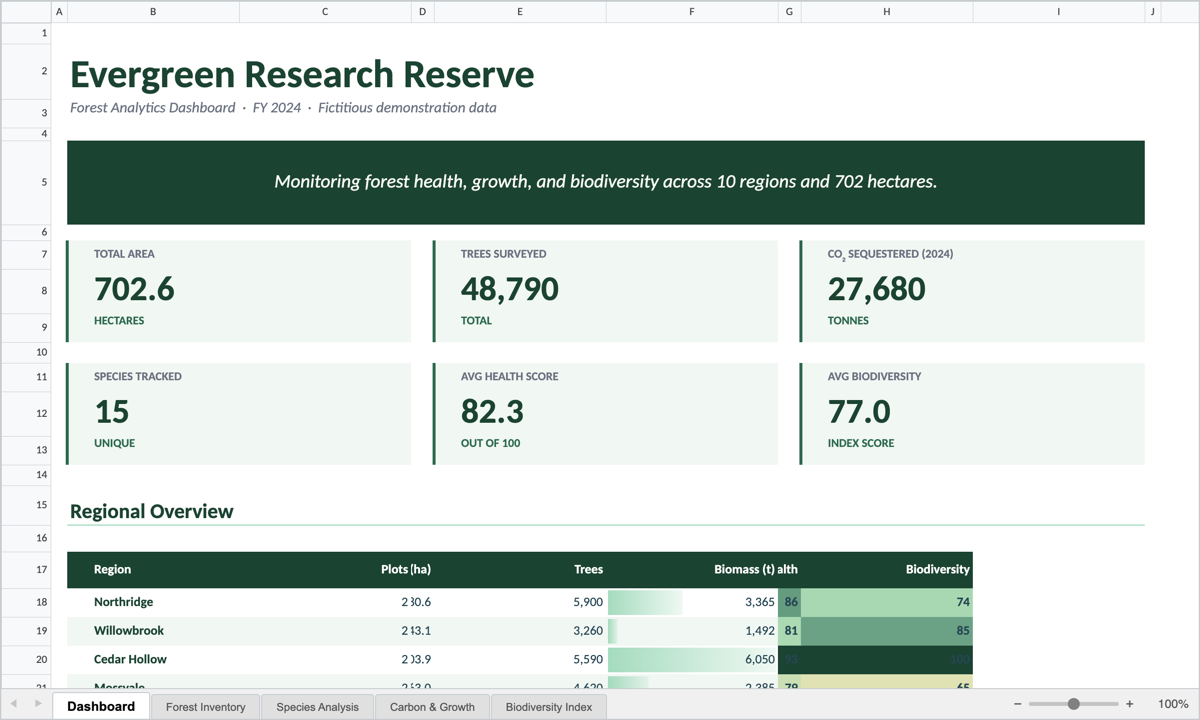
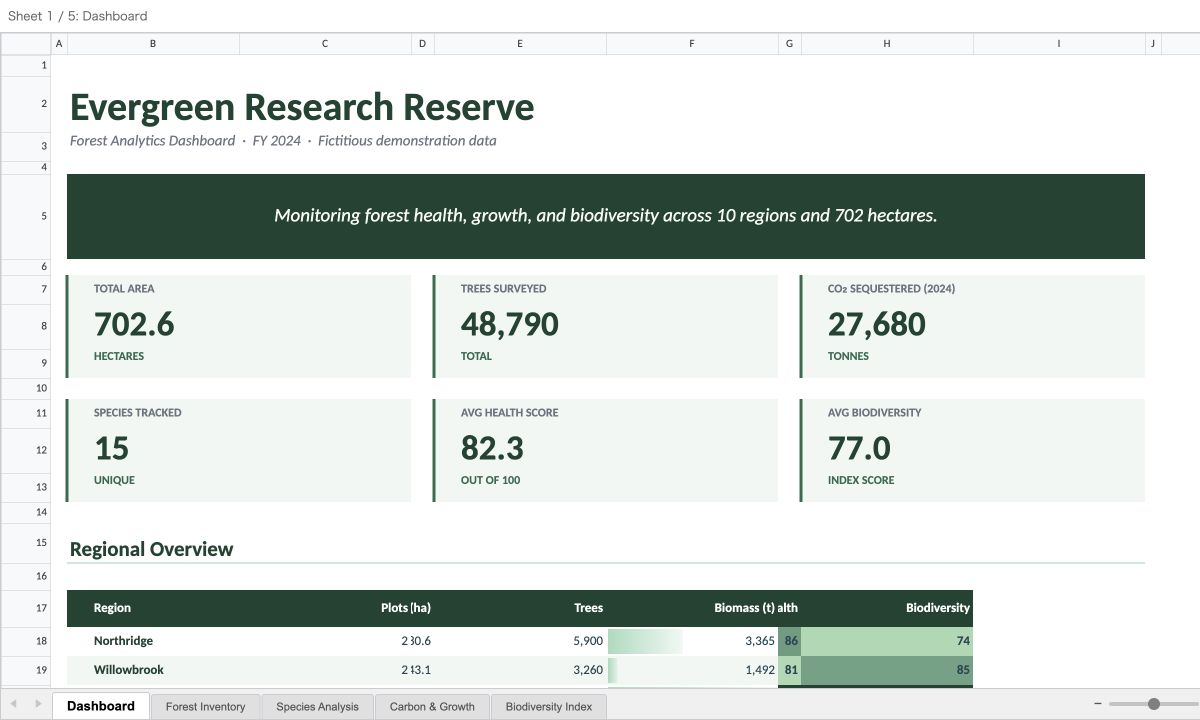
chore(release): 0.73.0
Prepare the 0.73.0 release after the immutable DOCX layout migration and its fidelity recovery cycle. Refresh the public screenshots and API reference, document the architecture, partial-rendering, callback identity, and TypeScript 7 changes, and align every package plus the MCP server version.

Verified with the full Vitest suite, TypeScript typecheck, workspace and published builds, Storybook build, Chrome/Firefox/WebKit smoke tests, DOCX architecture/compatibility/public-API/package gates, Cargo check, declaration export checks, lint checks, and git diff --check.

diff --git a/site/src/lib/api-reference.ts b/site/src/lib/api-reference.ts
@@ -100,7 +100,7 @@ export const apiReference: Record<'docx' | 'xlsx' | 'pptx', ApiClass[]> = {
       methods: [
         { sig: 'static load(source, options?): Promise<PptxPresentation>', desc: 'Parse a deck from a URL or ArrayBuffer.' },
         { sig: 'get slideCount(): number', desc: 'Total slides.' },
-        { sig: 'renderSlide(canvas, index, opts?: { width?, dpr?, onTextRun?, dim? }): Promise<void>', desc: 'Render one slide into the given canvas at the given width. `onTextRun` is called per rendered text segment so a caller can build a transparent selection overlay; `dim` (a DimOptions) paints a translucent wash over the finished slide (hidden-slide dimming). Equations render when a `math` engine was passed to `load`. Unavailable in `mode: "worker"` — use renderSlideToBitmap.' },
+        { sig: 'renderSlide(canvas, index, opts?: { width?, dpr?, onTextRun?, dim? }): Promise<void>', desc: 'Render one slide into the given canvas at the given width. `onTextRun` receives each rendered segment as `PptxTextRunInfo`, including the source shape’s slide-local `shapeId` when authored, so callers can build a transparent selection overlay or stable shape mapping; `dim` (a DimOptions) paints a translucent wash over the finished slide (hidden-slide dimming). Equations render when a `math` engine was passed to `load`. Unavailable in `mode: "worker"` — use renderSlideToBitmap.' },
         { sig: 'renderSlideToBitmap(index, opts?: { width?, dpr?, dim? }): Promise<ImageBitmap>', desc: 'Render one slide and return it as an ImageBitmap (both modes; in worker mode the render runs off the main thread). `dim` paints a translucent overlay over the slide (hidden-slide dimming). Equations are skipped in `mode: "worker"` (they require `mode: "main"`). The bitmap is caller-owned: pass it to `transferFromImageBitmap` (which consumes it) or call `bitmap.close()`.' },
         { sig: 'presentSlide(canvas, index, opts?: { width?, dpr?, onTextRun? }): Promise<PresentationHandle>', desc: 'Render a slide and attach canvas-native audio/video playback, returning a handle with play() / pause() / destroy(). Works in both modes — in `mode: "worker"` the base slide is rendered off the main thread and the video overlay is composited on the main thread; `onTextRun` is unavailable there (it cannot cross the worker boundary).' },
         { sig: 'getNotes(slideIndex: number): string | null', desc: 'Speaker-notes text for a slide (0-based; ECMA-376 §13.3.5). Returns null when the slide has no notes part or the index is out of range.' },
@@ -192,8 +192,8 @@ export const apiReference: Record<'docx' | 'xlsx' | 'pptx', ApiClass[]> = {
         { sig: 'get pageCount(): number', desc: 'Total pages.' },
         { sig: 'pageSize(pageIndex: number): { widthPt, heightPt }', desc: 'Page size in pt for a page (ECMA-376 §17.6.13 / §17.6.11 — per section, so a mixed portrait/landscape document returns different sizes per page). Available in both modes; index is clamped. `{ 0, 0 }` means "not loaded". Returns a fresh object per call.' },
         { sig: 'get mode(): "main" | "worker"', desc: 'The render mode this engine was loaded with. An injected engine’s mode decides whether pages render via renderPage (main) or renderPageToBitmap (worker).' },
-        { sig: 'renderPage(canvas, index, opts?: { width?, dpr?, showTrackChanges? }): Promise<void>', desc: 'Render one page into the given canvas. Unavailable in `mode: "worker"` — use renderPageToBitmap.' },
-        { sig: 'renderPageToBitmap(index, opts?: { width?, dpr?, showTrackChanges? }): Promise<ImageBitmap>', desc: 'Render one page and return it as an ImageBitmap (both modes; in worker mode the render runs off the main thread). Equations are skipped in `mode: "worker"` (they require `mode: "main"`). The bitmap is caller-owned: pass it to `transferFromImageBitmap` (which consumes it) or call `bitmap.close()`.' },
+        { sig: 'renderPage(canvas, index, opts?: { width?, dpr?, showTrackChanges?, onTextRun? }): Promise<void>', desc: 'Render one page into the given canvas. `onTextRun` receives each segment as `DocxTextRunInfo`, including the authored `w14:paraId` as `paragraphId` when present. Unavailable in `mode: "worker"` — use renderPageToBitmap.' },
+        { sig: 'renderPageToBitmap(index, opts?: { width?, dpr?, showTrackChanges?, onTextRun? }): Promise<ImageBitmap>', desc: 'Render one page and return it as an ImageBitmap (both modes; in worker mode the render runs off the main thread and returns the same text-run stream beside the bitmap). Equations are skipped in `mode: "worker"` (they require `mode: "main"`). The bitmap is caller-owned: pass it to `transferFromImageBitmap` (which consumes it) or call `bitmap.close()`.' },
       ],
     },
     {
@@ -290,7 +290,7 @@ export const apiReference: Record<'docx' | 'xlsx' | 'pptx', ApiClass[]> = {
         { sig: 'static load(source, options?): Promise<XlsxWorkbook>', desc: 'Parse a workbook from a URL or ArrayBuffer.' },
         { sig: 'get sheetNames(): string[]', desc: 'Names of all sheets.' },
         { sig: 'get sheetCount(): number', desc: 'Total sheets.' },
-        { sig: 'renderViewport(canvas, sheetIndex, viewport, opts?: { width?, height?, dpr?, cellScale? }): Promise<void>', desc: 'Render a row/col window of a sheet into the given canvas. Equations in shapes render when a `math` engine was passed to `load`. Unavailable in `mode: "worker"` — use renderViewportToBitmap.' },
+        { sig: 'renderViewport(canvas, sheetIndex, viewport, opts?: { width?, height?, dpr?, cellScale?, onTextRun? }): Promise<void>', desc: 'Render a row/col window of a sheet into the given canvas. `onTextRun` receives each text cell as `XlsxTextRunInfo` with required `sheetName` and A1 `cellRef` identity. Equations in shapes render when a `math` engine was passed to `load`. Unavailable in `mode: "worker"` — use renderViewportToBitmap.' },
         { sig: 'renderViewportToBitmap(sheetIndex, viewport, opts: { width, height, dpr?, cellScale? }): Promise<ImageBitmap>', desc: 'Render a sheet viewport and return it as an ImageBitmap (both modes; in worker mode the render runs off the main thread). `width` and `height` are required — a worker has no DOM element to measure. Equations in shapes are skipped in `mode: "worker"` (they require `mode: "main"`). The bitmap is caller-owned: pass it to `transferFromImageBitmap` (which consumes it) or call `bitmap.close()`.' },
         { sig: 'resolveValidationList(sheetIndex, formula1): Promise<ResolvedList>', desc: 'Resolve a list-type data-validation `formula1` (ECMA-376 §18.3.1.32) into the allowed values to display — inline quoted list, a range reference (each cell’s display string), or `{ kind: \'formula\' }` for named ranges. Read-only.' },
         { sig: 'destroy(): void', desc: 'Release the worker.' },

diff --git a/CHANGELOG.md b/CHANGELOG.md
@@ -4,6 +4,70 @@ All notable changes to @silurus/ooxml are documented here. The project follows
 semantic versioning; minor releases add spec-compliant features or behavior
 changes that remain compatible with existing API surfaces.
 
+## 0.73.0 — 2026-07-24
+
+Minor. Completes the DOCX migration to one immutable layout-to-paint pipeline,
+then restores the full fidelity corpus through that architecture rather than
+reintroducing renderer-side measurement or legacy fallbacks. The release also
+adds bounded partial rendering for unsupported optional drawings, exposes stable
+source identities in text-run callbacks, and moves normal type-checking to
+TypeScript 7.
+
+**docx — retained layout architecture and fidelity**
+
+- Replace renderer-owned pagination and reduced-state fallback paths with one
+  retained, point-space `DocumentLayout`: immutable page/column transitions,
+  occurrence-owned paragraphs/tables/drawings, canonical page stories and
+  layers, deterministic convergence, and identical main-thread/worker layout
+  inputs. Final architecture and compatibility gates now fail closed if an
+  alternate layout path is introduced. Public DOCX declarations and worker
+  contracts remain compatible. (#1037, #1038–#1077)
+- Restore the parser and layout facts needed for Word-compatible pagination and
+  paint after the cutover: field/tab boundaries, numbering-indent provenance,
+  table/frame/border geometry, text-box and page-owned anchors, inherited shape
+  text color, section decorations, East Asian line metrics, and selected-font
+  ink. Canvas paint consumes retained geometry without re-measuring it.
+  (#1080, #1083, #1084)
+- Keep OpenType `vert` acquisition and painting on the same Canvas/font route;
+  retain vertical glyph advances and origins; avoid applying negative pitch
+  twice to brackets, punctuation, question/exclamation marks, long marks,
+  middle dots, and ellipses. Preserve Japanese punctuation/kana compression per
+  grapheme through wrapping, continuation, intrinsic measurement, and paint.
+  (§17.3.2.10, §17.6.20, §17.15.1.18; #1086, #1091, #1092)
+- Reduce repeated retained-layout work through immutable paragraph projection
+  caches and dense wrap-polygon memoization. Shared deeply frozen polygons now
+  compile once at O(V²) plus O(PV) validation instead of O(PV²), eliminating
+  the former O(V³) aggregate case when paragraph acquisitions scale with
+  polygon vertices. (#1076)
+
+**docx — failure containment**
+
+- Preserve surrounding document content when an optional VML text path is
+  unsupported or an image/chart relationship is unavailable but its authored
+  extent is valid. The canonical layout retains a diagnostic no-op node and its
+  geometry; invalid numeric geometry and structural failures remain fatal.
+  This is a bounded recovery policy, not catch-all exception suppression or a
+  legacy renderer fallback. (#1090, #1091; progresses #1088)
+
+**public callbacks and viewer fixes**
+
+- Text-run callbacks now expose stable source identities:
+  `DocxTextRunInfo.paragraphId` (`w14:paraId`),
+  `PptxTextRunInfo.shapeId` (`cNvPr@id`), and required
+  `XlsxTextRunInfo.sheetName` / `cellRef` values. (#1078, #1079)
+- XLSX built-in zoom controls explicitly use `type="button"`, preventing them
+  from submitting an ancestor HTML form. (#1087)
+
+**tooling and packaging**
+
+- Run project type-checks and declaration emission with the native TypeScript 7
+  CLI while isolating TypeScript 6 for tools that still require the legacy
+  JavaScript Compiler API. Remove duplicate CI package type-checks, replace
+  `vite-plugin-dts` / API Extractor with `rolldown-plugin-dts`, and preserve all
+  five published declaration entries and their TypeScript 5.9/6/7 compatibility.
+  On the measured Apple Silicon baseline, cold `pnpm typecheck` fell from
+  7.41 s to 1.51 s and cold `pnpm build` from 8.47 s to 1.79 s. (#1075)
+
 ## 0.72.2 — 2026-07-13
 
 Patch (fixes on v0.72.1). Word-compatible docx layout geometry plus xlsx